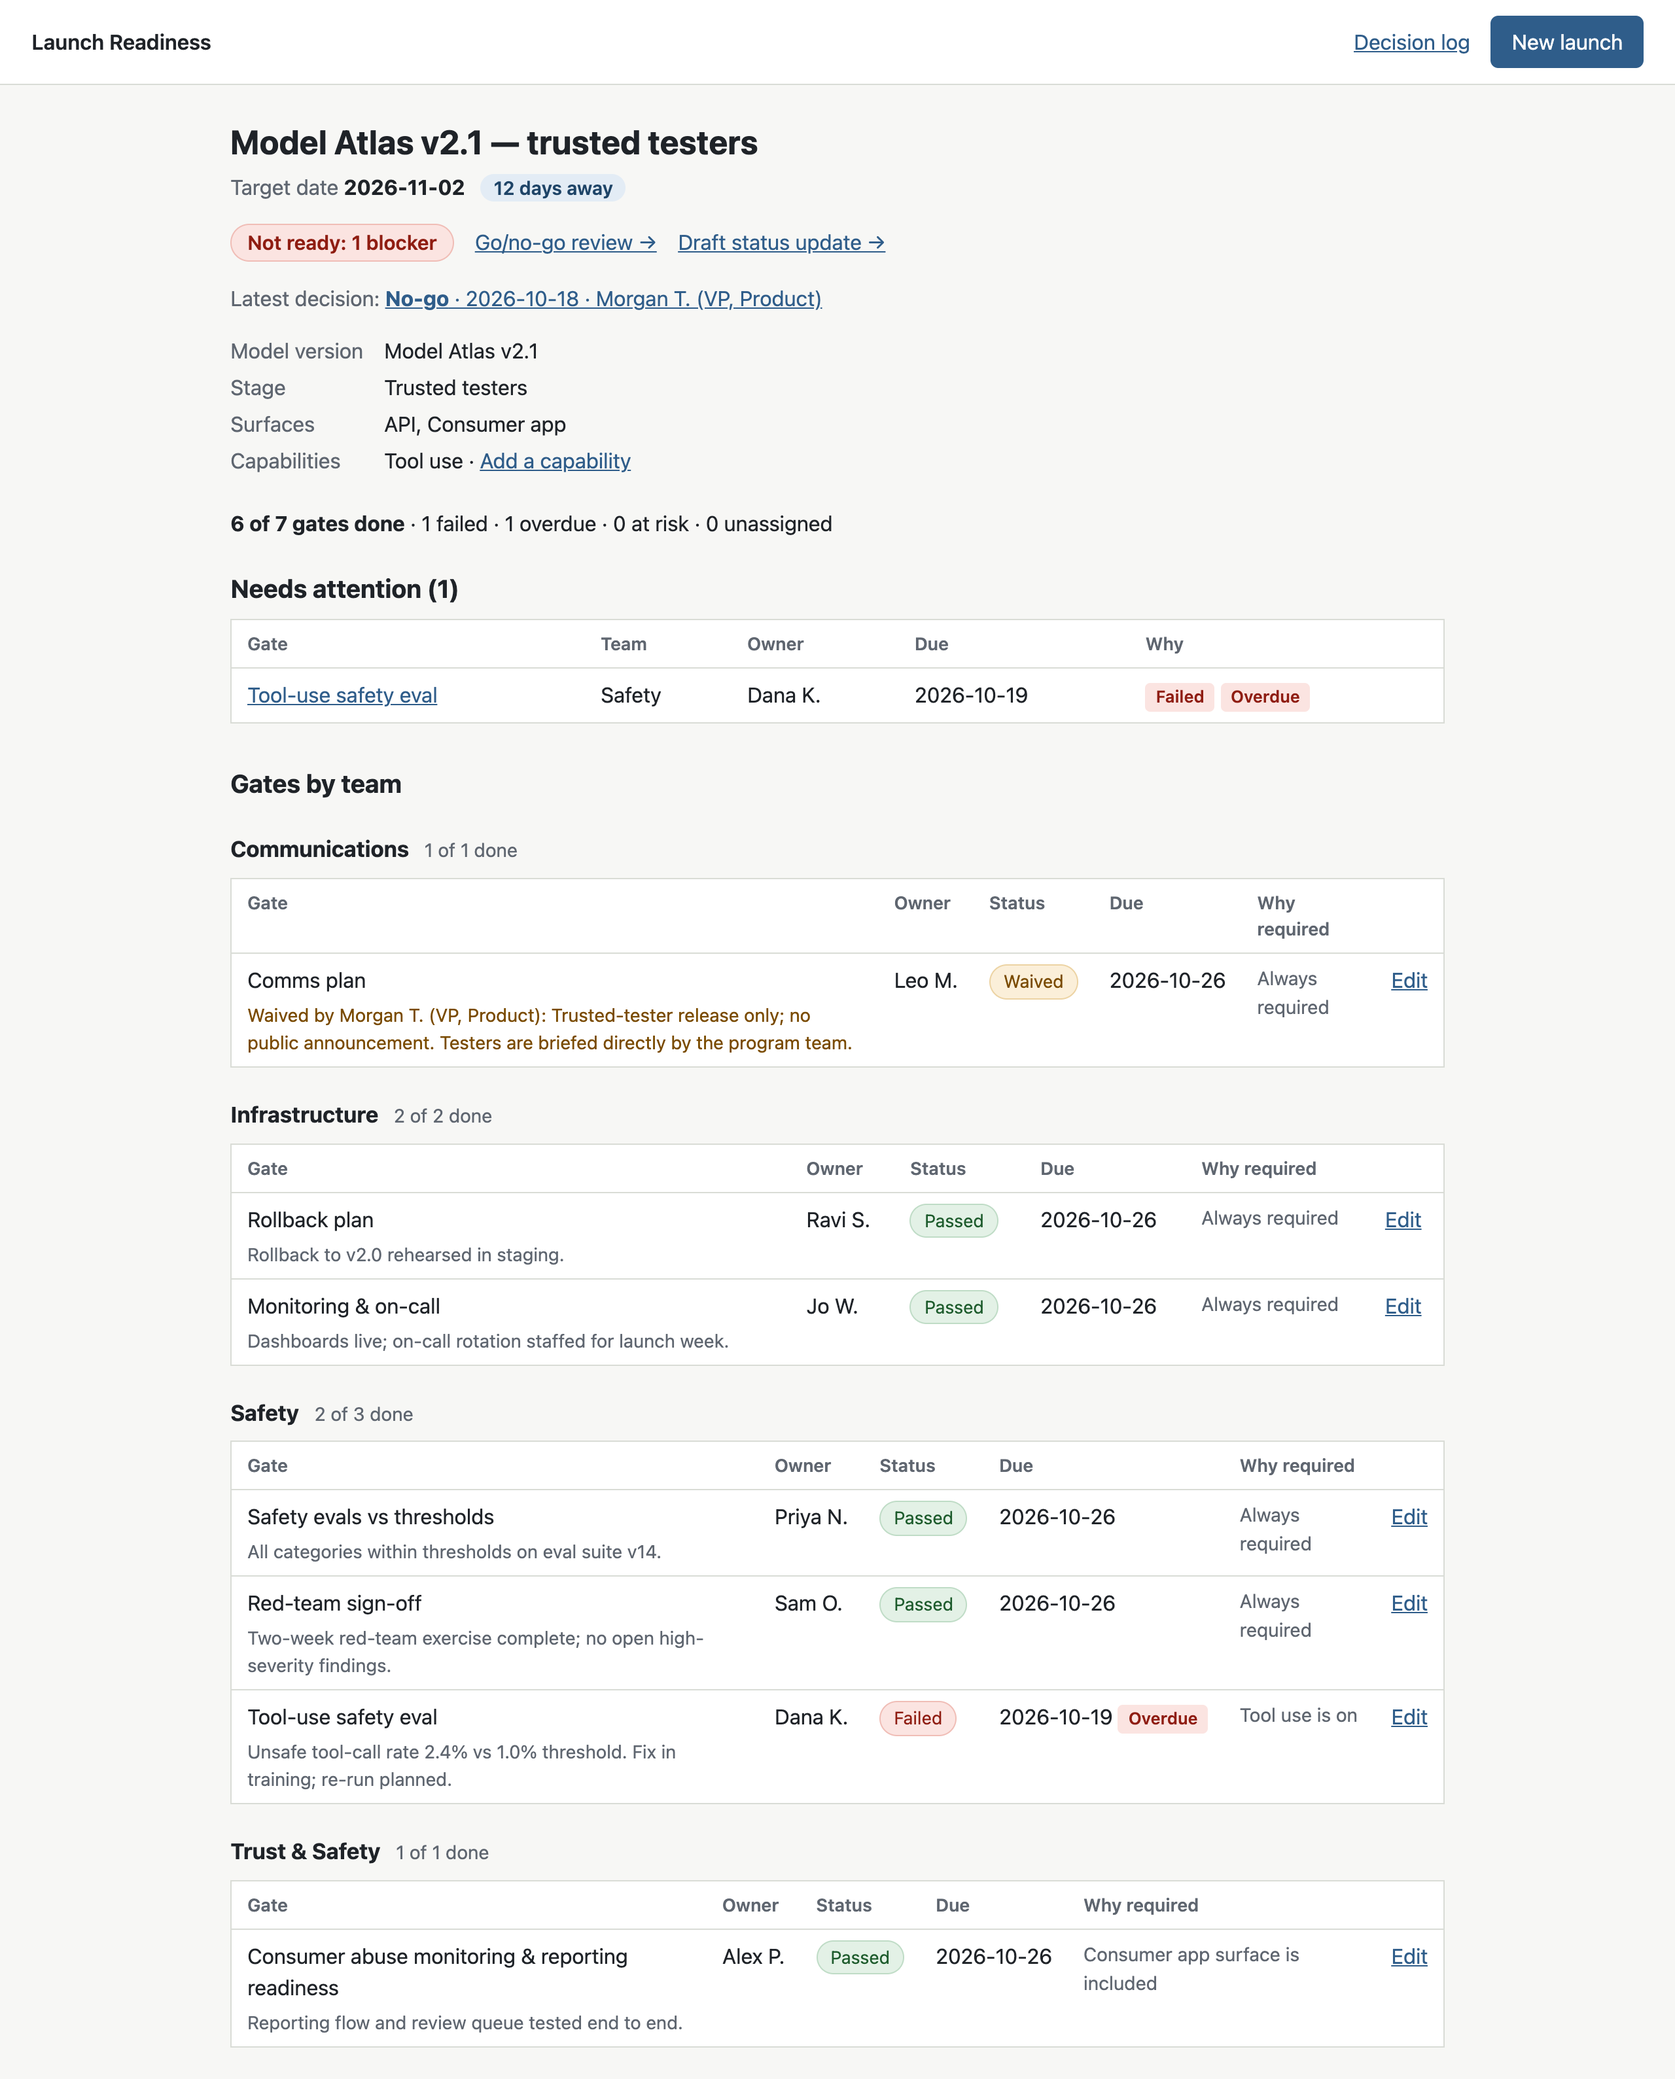
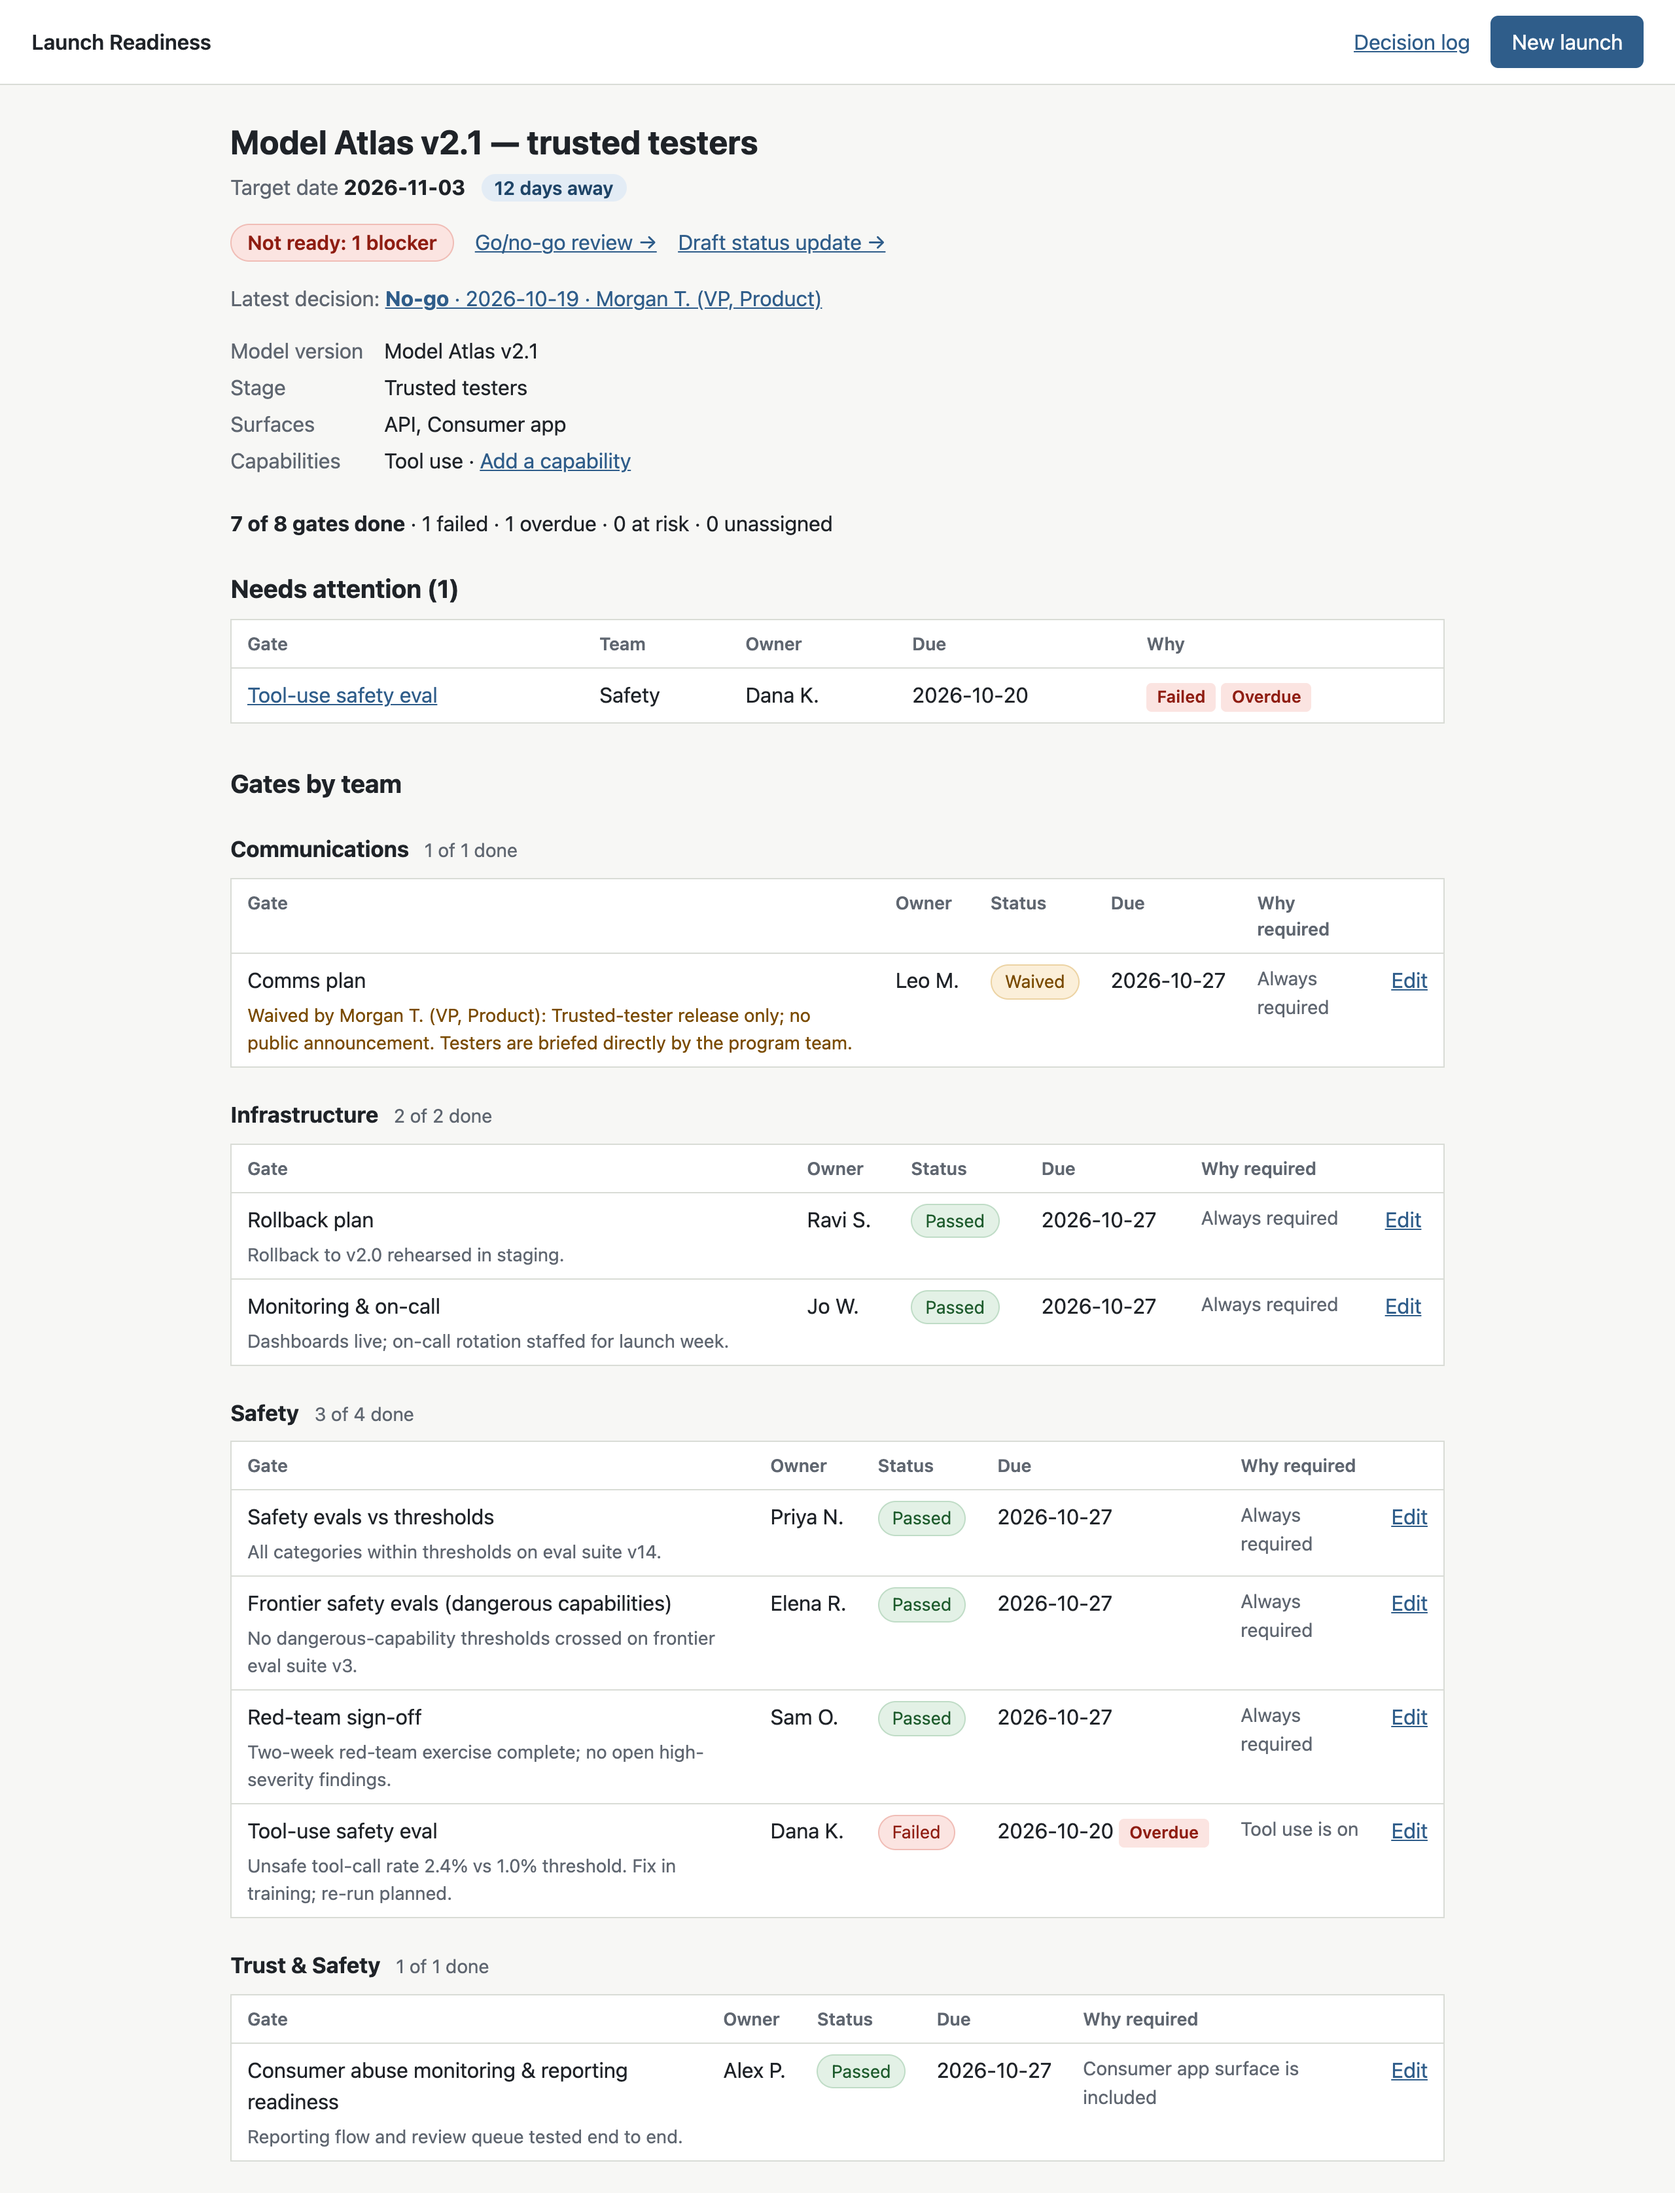
Add always-required frontier safety evals gate
New Safety gate "Frontier safety evals (dangerous capabilities)", required
for every launch. Seed data: passed on v2.1 (still one blocker), in progress
on v2.2. Tests updated for the new gate counts, with new tests for the gate
and its seed data. README counts, PLAN gate list and screenshots refreshed.

diff --git a/tests/test_gate_editing.py b/tests/test_gate_editing.py
@@ -135,12 +135,12 @@ def test_dashboard_status_labels_and_tags(client, conn, launch_id):
     assert 'class="status status-passed">Passed<' in html
     assert 'class="status status-failed">Failed<' in html
     assert html.count('class="tag tag-overdue">Overdue<') == 2  # attention table + team table
-    assert "1 of 7 gates done" in html
+    assert "1 of 8 gates done" in html
     assert "1 failed" in html and "1 overdue" in html
 
 
 def test_needs_attention_section(client, conn, launch_id):
-    for key in ("safety_evals", "red_team_signoff", "rollback_plan", "monitoring_oncall",
+    for key in ("safety_evals", "frontier_safety_evals", "red_team_signoff", "rollback_plan", "monitoring_oncall",
                 "consumer_abuse_readiness"):
         set_gate(conn, launch_id, key)
     set_gate(conn, launch_id, "tool_use_safety_eval", status=GateStatus.FAILED,
@@ -161,13 +161,13 @@ def test_needs_attention_empty_state(client, conn, launch_id):
         set_gate(conn, launch_id, gate["gate_key"])
     html = client.get(f"/launches/{launch_id}").get_data(as_text=True)
     assert "Nothing needs attention" in html
-    assert "7 of 7 gates done" in html
+    assert "8 of 8 gates done" in html
 
 
 def test_new_launch_gates_all_show_as_unassigned(client, launch_id):
     html = client.get(f"/launches/{launch_id}").get_data(as_text=True)
-    assert "Needs attention (7)" in html
-    assert "7 unassigned" in html
+    assert "Needs attention (8)" in html
+    assert "8 unassigned" in html
 
 
 def test_waiver_shown_on_dashboard(client, conn, launch_id):
@@ -203,7 +203,7 @@ def test_valid_edit_redirects_and_dashboard_shows_it(client, conn, launch_id):
     assert response.status_code == 302
     assert response.headers["Location"] == f"/launches/{launch_id}"
     html = client.get(f"/launches/{launch_id}").get_data(as_text=True)
-    assert "1 of 7 gates done" in html
+    assert "1 of 8 gates done" in html
     assert "Rehearsed." in html
 
 

diff --git a/tests/test_seed.py b/tests/test_seed.py
@@ -52,7 +52,7 @@ def test_creates_exactly_two_launches_with_expected_configs(conn, seeded):
 def test_v21_has_exactly_one_blocker(conn, seeded):
     gates = {g.gate_key: g for g in views(conn, seeded[0])}
     statuses = sorted(g.status.value for g in gates.values())
-    assert statuses == ["failed", "passed", "passed", "passed", "passed", "passed", "waived"]
+    assert statuses == ["failed", "passed", "passed", "passed", "passed", "passed", "passed", "waived"]
     assert gates["tool_use_safety_eval"].status.value == "failed"
     assert [g.gate_key for g in needs_attention(gates.values())] == ["tool_use_safety_eval"]
 
@@ -79,9 +79,17 @@ def test_every_waived_gate_has_rationale_and_approver(conn, seeded):
 
 def test_v22_mostly_in_progress_with_comms_unassigned(conn, seeded):
     gates = {g.gate_key: g for g in views(conn, seeded[1])}
-    assert sum(g.status.value == "in_progress" for g in gates.values()) == 4
+    assert sum(g.status.value == "in_progress" for g in gates.values()) == 5
     assert gates["comms"].is_unassigned
     assert not any(g.overdue for g in gates.values())
+
+
+def test_frontier_safety_evals_seeded(conn, seeded):
+    v21 = {g.gate_key: g for g in views(conn, seeded[0])}["frontier_safety_evals"]
+    assert v21.status.value == "passed" and v21.owner == "Elena R."
+    v22 = {g.gate_key: g for g in views(conn, seeded[1])}["frontier_safety_evals"]
+    assert v22.status.value == "in_progress" and v22.owner == "Elena R."
+    assert not v22.at_risk and not v22.overdue
 
 
 def test_dates_are_relative_to_seed_day(conn, seeded):

diff --git a/tests/test_delta_pages.py b/tests/test_delta_pages.py
@@ -53,7 +53,7 @@ def test_go_no_go_lists_every_capability_that_is_off(client):
             assert f'data-add-capability="{cap.value}"' in add
     row = add.split('data-add-capability="code_execution"')[1].split("</tr>")[0]
     assert "Sandbox security review" in row
-    assert "Not ready: 7 blockers" in row
+    assert "Not ready: 8 blockers" in row
 
 
 def test_review_page_shows_only_the_new_gate(client, conn):
@@ -65,7 +65,7 @@ def test_review_page_shows_only_the_new_gate(client, conn):
     assert "2026-11-25" in new
     for g in get_gates(conn, 2):  # none of the existing gates are listed
         assert g["name"] not in new
-    assert "Not ready: 6 blockers" in html and "Not ready: 7 blockers" in html
+    assert "Not ready: 7 blockers" in html and "Not ready: 8 blockers" in html
     assert "Turn on code execution and add 1 gate" in html
 
 
@@ -76,7 +76,7 @@ def test_valid_confirmation_adds_gate_and_shows_it_on_dashboard(client):
     html = page(client, "/launches/2")
     assert "Sandbox security review" in html
     assert "Added when code execution was turned on (2026-11-02)" in html
-    assert 'href="/launches/2/go-no-go">Not ready: 7 blockers<' in html
+    assert 'href="/launches/2/go-no-go">Not ready: 8 blockers<' in html
     caps = html.split("<dt>Capabilities</dt>")[1].split("</dd>")[0]
     assert "Code execution" in caps
 

diff --git a/launch_readiness/seed.py b/launch_readiness/seed.py
@@ -32,6 +32,10 @@ SAMPLE_LAUNCHES = [
                 "status": "passed", "owner": "Priya N.",
                 "notes": "All categories within thresholds on eval suite v14.",
             },
+            "frontier_safety_evals": {
+                "status": "passed", "owner": "Elena R.",
+                "notes": "No dangerous-capability thresholds crossed on frontier eval suite v3.",
+            },
             "red_team_signoff": {
                 "status": "passed", "owner": "Sam O.",
                 "notes": "Two-week red-team exercise complete; no open high-severity findings.",
@@ -80,6 +84,7 @@ SAMPLE_LAUNCHES = [
         "capabilities": ["tool_use"],
         "gates": {
             "safety_evals": {"status": "in_progress", "owner": "Priya N."},
+            "frontier_safety_evals": {"status": "in_progress", "owner": "Elena R."},
             "red_team_signoff": {  # at risk: not started, due in 2 days
                 "status": "not_started", "owner": "Sam O.", "due_in_days": 2,
                 "notes": "Kickoff waiting on the red-team test environment.",

diff --git a/tests/test_rules_engine.py b/tests/test_rules_engine.py
@@ -132,3 +132,18 @@ def test_configuration_rejects_unknown_capability():
 def test_stages_are_ordered():
     assert Stage.INTERNAL < Stage.TRUSTED_TESTERS < Stage.LIMITED_GA < Stage.GA
     assert Stage.GA >= Stage.LIMITED_GA
+
+
+@pytest.mark.parametrize("stage", list(Stage))
+@pytest.mark.parametrize("surface", list(Surface))
+def test_frontier_safety_evals_required_for_every_launch(rules, stage, surface):
+    for capabilities in ((), tuple(Capability)):
+        config = make_config(stage=stage, surfaces=[surface], capabilities=capabilities)
+        reasons = {g.id: g.reasons for g in required_gates(config, rules)}
+        assert reasons["frontier_safety_evals"] == ("Always required",)
+
+
+def test_frontier_safety_evals_definition(rules):
+    gate = rules.definition("frontier_safety_evals")
+    assert gate.name == "Frontier safety evals (dangerous capabilities)"
+    assert gate.team == "Safety"

diff --git a/tests/test_app.py b/tests/test_app.py
@@ -49,7 +49,7 @@ def test_valid_submission_creates_launch_and_shows_gates(client, app):
 
     html = client.get("/launches/1").get_data(as_text=True)
     assert "Model Atlas v2.1 — trusted testers" in html
-    assert "0 of 7 gates done" in html
+    assert "0 of 8 gates done" in html
     assert "Tool-use safety eval" in html
     assert "Tool use is on" in html
     assert "Consumer abuse monitoring &amp; reporting readiness" in html
@@ -97,4 +97,4 @@ def test_launch_page_shows_no_capabilities(client):
     caps = html.split("<dt>Capabilities</dt>")[1].split("</dd>")[0]
     assert "None" in caps
     assert "Add a capability" in caps
-    assert "0 of 6 gates done" in html
+    assert "0 of 7 gates done" in html

diff --git a/tests/test_go_no_go_pages.py b/tests/test_go_no_go_pages.py
@@ -164,8 +164,8 @@ def test_removed_section_after_scope_change(client):
     assert "2026-11-02" in removed
     assert FORM["follow_up"] in removed
     assert "Tool use turned off by Morgan T." in removed
-    # Removed gates don't count: the rest of the page shows 6 gates, all done.
-    assert "6 of 6 gates done" in html
+    # Removed gates don't count: the rest of the page shows 7 gates, all done.
+    assert "7 of 7 gates done" in html
     assert 'href="/launches/1/go-no-go">Ready<' in html
     teams = html.split("Gates by team")[1].split('id="removed-heading"')[0]
     assert "Tool-use safety eval" not in teams

diff --git a/tests/test_launches.py b/tests/test_launches.py
@@ -132,8 +132,8 @@ def test_list_launches_newest_first_with_gate_counts(conn, rules):
     )
     rows = list_launches(conn)
     assert [r["id"] for r in rows] == [second, first]
-    assert rows[0]["gate_count"] == 11  # 5 baseline + 5 capabilities + consumer app
-    assert rows[1]["gate_count"] == 7
+    assert rows[0]["gate_count"] == 12  # 6 baseline + 5 capabilities + consumer app
+    assert rows[1]["gate_count"] == 8
 
 
 def test_unknown_launch_has_no_configuration(conn):

diff --git a/tests/conftest.py b/tests/conftest.py
@@ -4,7 +4,10 @@ from launch_readiness.models import Capability, Configuration, Stage, Surface
 from launch_readiness.rules_engine import load_rules
 
 # Gates every configuration needs, per gate_rules.yaml.
-BASELINE = {"safety_evals", "red_team_signoff", "rollback_plan", "monitoring_oncall", "comms"}
+BASELINE = {
+    "safety_evals", "frontier_safety_evals", "red_team_signoff",
+    "rollback_plan", "monitoring_oncall", "comms",
+}
 
 
 @pytest.fixture(scope="session")

diff --git a/tests/test_status_report.py b/tests/test_status_report.py
@@ -61,7 +61,7 @@ def test_v21_facts(ro):
     assert latest["follow_up"].startswith("Re-run the eval")
     (waived,) = r["waived_gates"]
     assert waived["gate"] == "Comms plan" and waived["waived_by"] == "Morgan T. (VP, Product)"
-    assert {"team": "Safety", "done": 2, "total": 3} in r["teams"]
+    assert {"team": "Safety", "done": 3, "total": 4} in r["teams"]
 
 
 def test_v22_facts(ro):

diff --git a/tests/test_rules_file.py b/tests/test_rules_file.py
@@ -18,7 +18,7 @@ def parse_one(g):
 
 def test_shipped_rules_file_loads():
     rules = load_rules()
-    assert len(rules.gate_ids) == 14
+    assert len(rules.gate_ids) == 15
     assert rules.definition("capacity_signoff").team == "Infrastructure"
 
 

diff --git a/README.md b/README.md
@@ -30,7 +30,7 @@ This tool takes a launch configuration (model version, surfaces, capabilities, r
 
 ![Launch without tool use: impact preview and scope-change form](docs/screenshots/03-launch-without.png)
 
-**Delta review.** Adding code execution to Model Atlas v2.2 shows only the one new gate it needs (the sandbox security review), not the seven the launch already has.
+**Delta review.** Adding code execution to Model Atlas v2.2 shows only the one new gate it needs (the sandbox security review), not the eight the launch already has.
 
 ![Delta review for adding code execution to Model Atlas v2.2](docs/screenshots/04-delta-review.png)
 
@@ -101,7 +101,7 @@ I set the direction and made the product decisions, using Claude as a planning a
 1. **Plan:** a written proposal of the design and the tests, with open questions.
 2. **Review:** decisions made and changes requested before any code was written.
 3. **Build:** code and tests written to the approved plan.
-4. **Verify:** the full test suite passed, and the feature was tried in the browser.
+4. **Verify:** the full test suite passed, and features were reviewed in the browser.
 5. **Merge** into `main`.
 
 **Key changes made in review**
@@ -116,7 +116,7 @@ I set the direction and made the product decisions, using Claude as a planning a
 - No silent fallback to another model for the AI summary: if it declines, the page says so.
 - Stage promotion was held back to a later feature to keep v1's scope tight.
 
-**Tests.** 414 automated tests cover the gate rules, readiness, scope changes, the delta review, decisions and the AI summary (using a stand-in for the Claude API), plus one opt-in test against the real API. After each feature, bugs were introduced on purpose to confirm the tests catch them.
+**Tests.** 428 automated tests cover the gate rules, readiness, scope changes, the delta review, decisions and the AI summary (using a stand-in for the Claude API), plus one opt-in test against the real API. After each feature, bugs were introduced on purpose to confirm the tests catch them.
 
 **Project layout**
 
